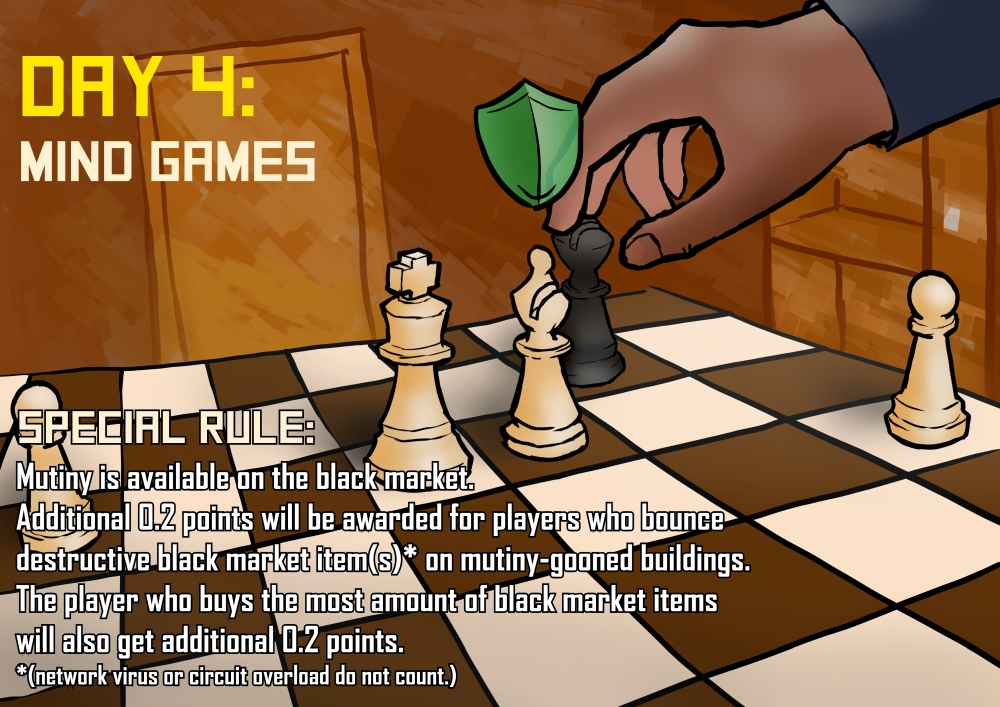
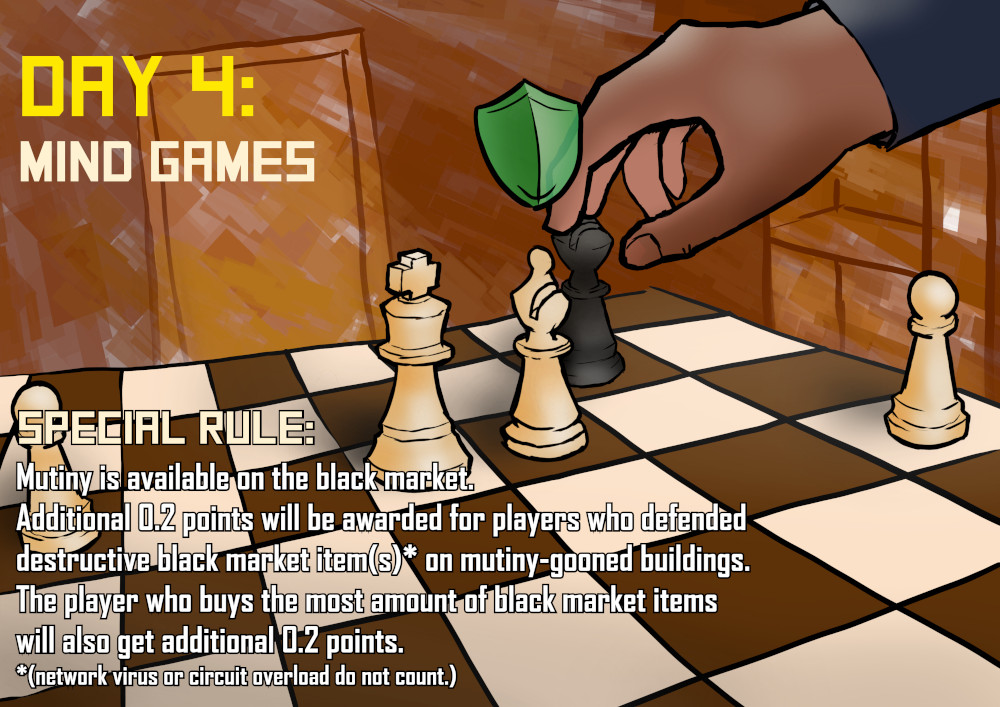
change image 4

diff --git a/templates/rules.html b/templates/rules.html
@@ -32,14 +32,14 @@
                 (We will count buy-sell money together at the end of Sol 3 (9 on Ceres, 2 on Io))</li>
                 <li><h4><a href="{% url 'day2' %}">Day 2:</a> Eggs in Multiple Baskets</h4>
                 At least 2 AOE attacks are available on black market.<br />
-                Players who don't have more than 4 tiles connected together at the end of the game are awarded 0.2 points.<br />
+                Players who don't have more than 4 tiles connected together when bought out or at the end of the game are awarded 0.2 points.<br />
                 (Good Squads count as disconnected tiles.)</li>
                 <li><h4><a href="{% url 'day3' %}">Day 3:</a> Commercial Meterology Experiment</h4>
                 Magnetic storms are available on black market.<br />
                 The player who has used the most amount of it will get additional 0.2 points.</li>
                 <li><h4><a href="{% url 'day4' %}">Day 4:</a> Mind Games</h4>
                 Mutiny is available on the black market.<br />
-                Additional 0.2 points will be awarded for players who bounce destructive black market item(s)* on mutiny-gooned buildings.<br />
+                Additional 0.2 points will be awarded for players who defended destructive black market item(s)* on mutiny-gooned buildings.<br />
                 The player who buys the most amount of black market items will also get additional 0.2 points.<br />
                 *(network virus or circuit overload do not count.)</li>
             </ul>
